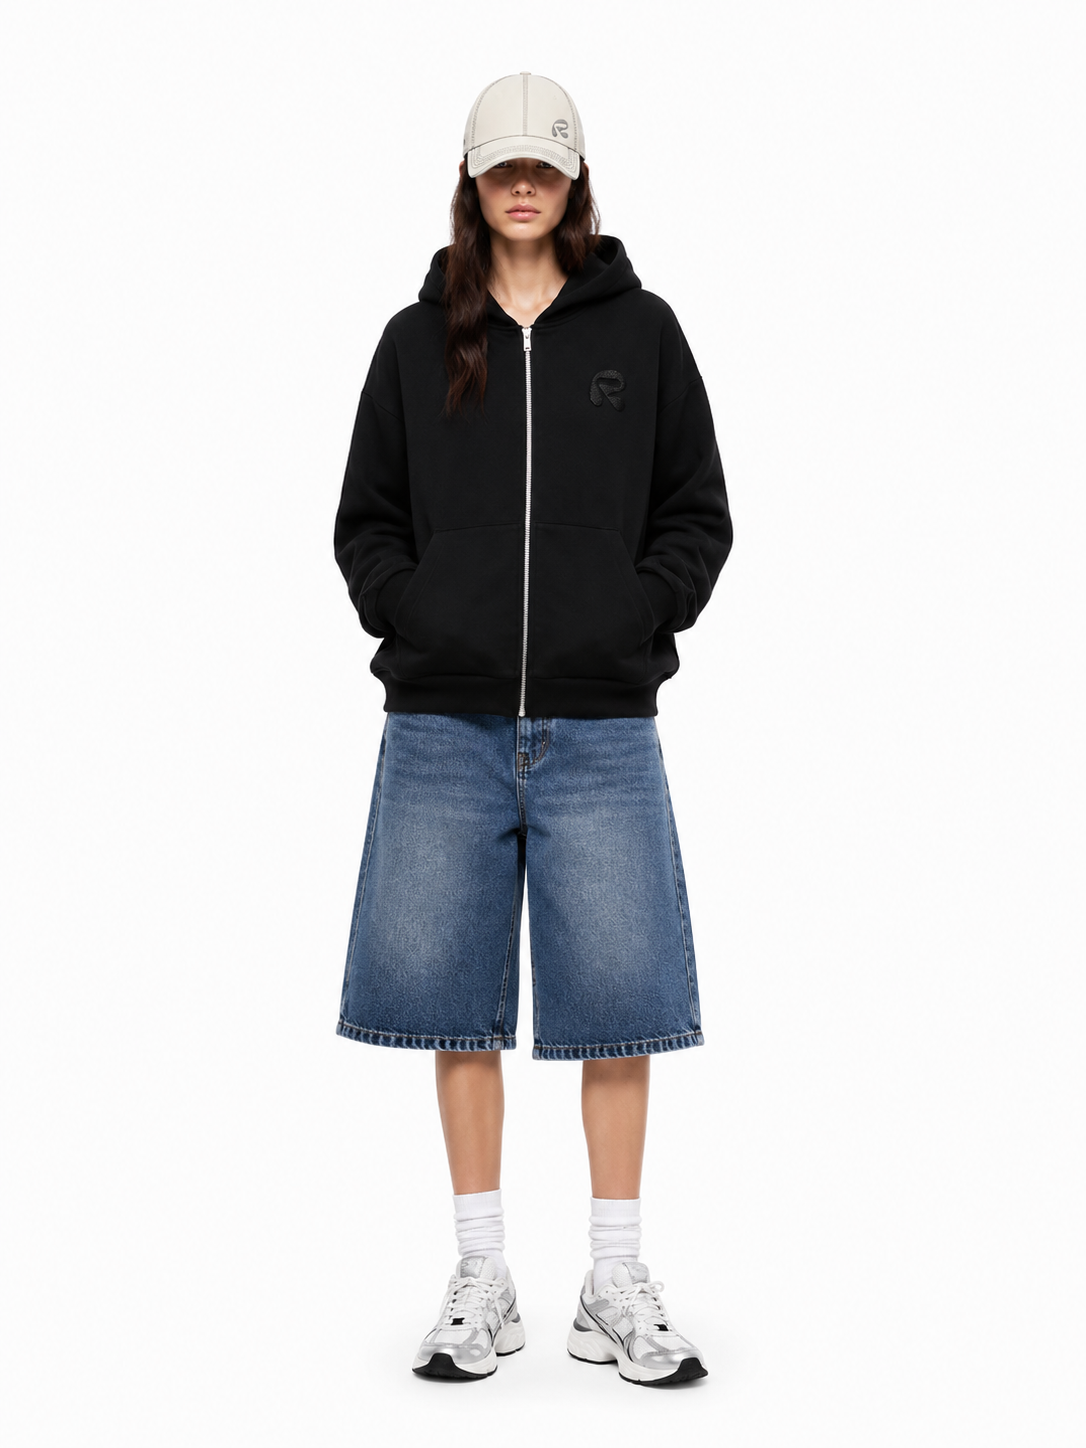
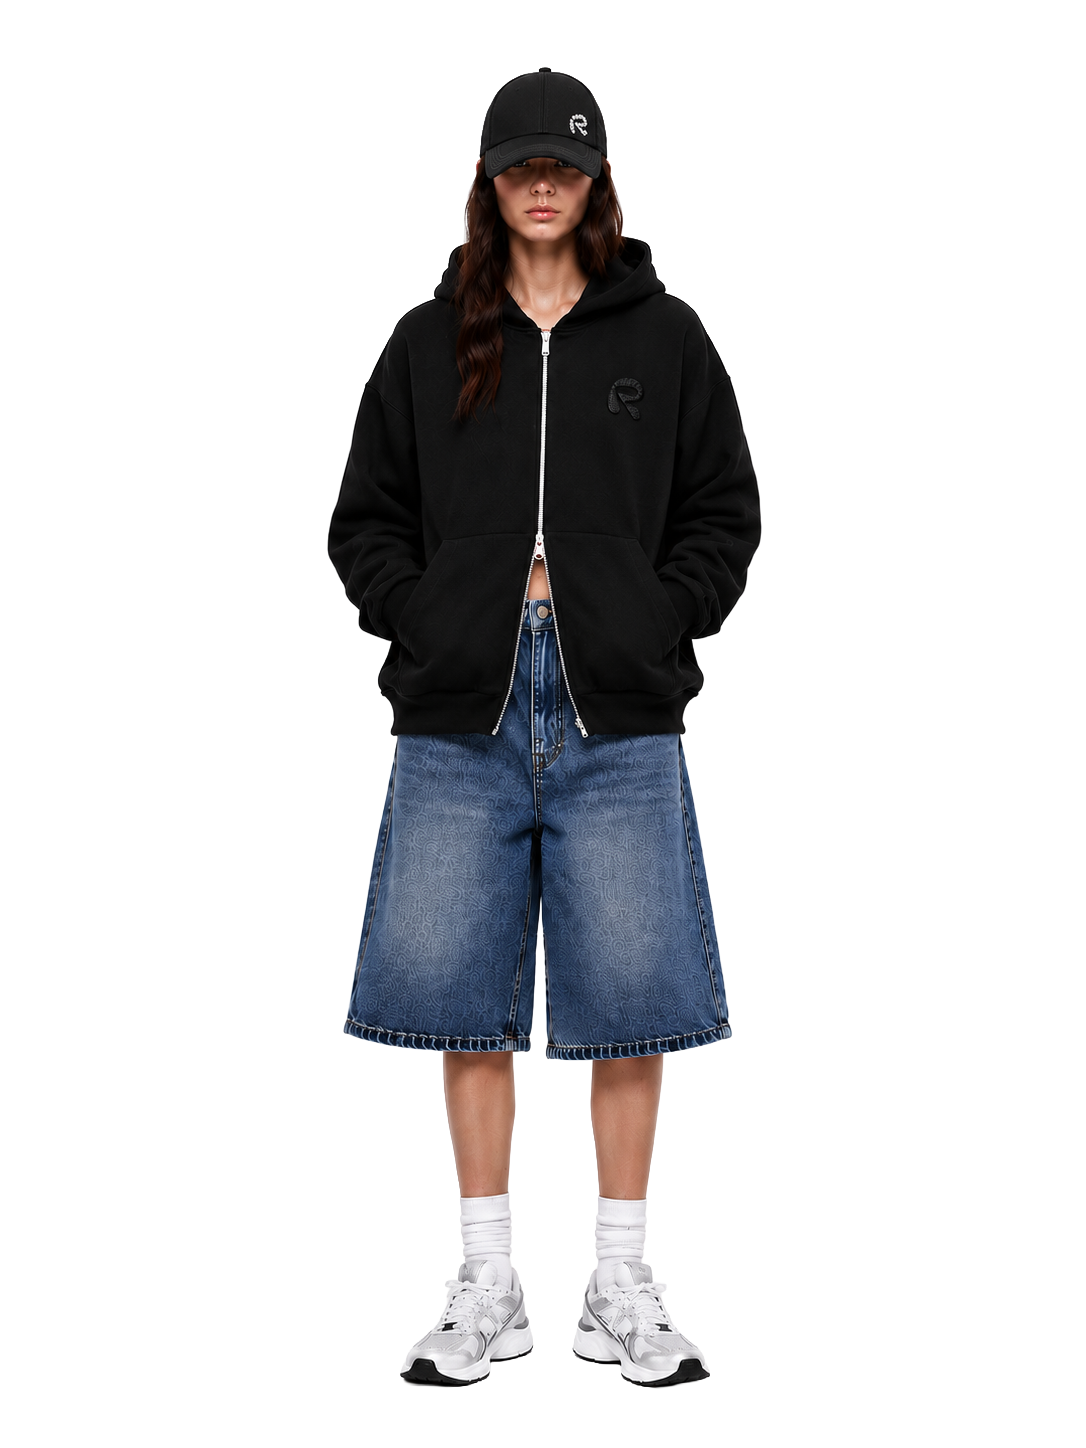
adding fashion photos

diff --git a/src/pages/FashionPage/fashionPage.jsx b/src/pages/FashionPage/fashionPage.jsx
@@ -4,6 +4,7 @@ import Navbar from "../../components/Navbar/Navbar";
 import ARVEN from "../../img/fashion_photos/ARVEN.png";
 import ELVAR from "../../img/fashion_photos/ELVAR.png";
 import YAVIRA from "../../img/fashion_photos/YAVIRA.png";
+import SAMANDRA from "../../img/fashion_photos/SAMANDRA.png";
 
 import "./fashionPage.css";
 
@@ -11,6 +12,7 @@ const fashionItems = [
   { title: "ARVEN", image: ARVEN },
   { title: "ELVAR", image: ELVAR },
   { title: "YAVIRA", image: YAVIRA },
+  { title: "SAMANDRA", image: SAMANDRA },
 ];
 
 export default function FashionPage() {
